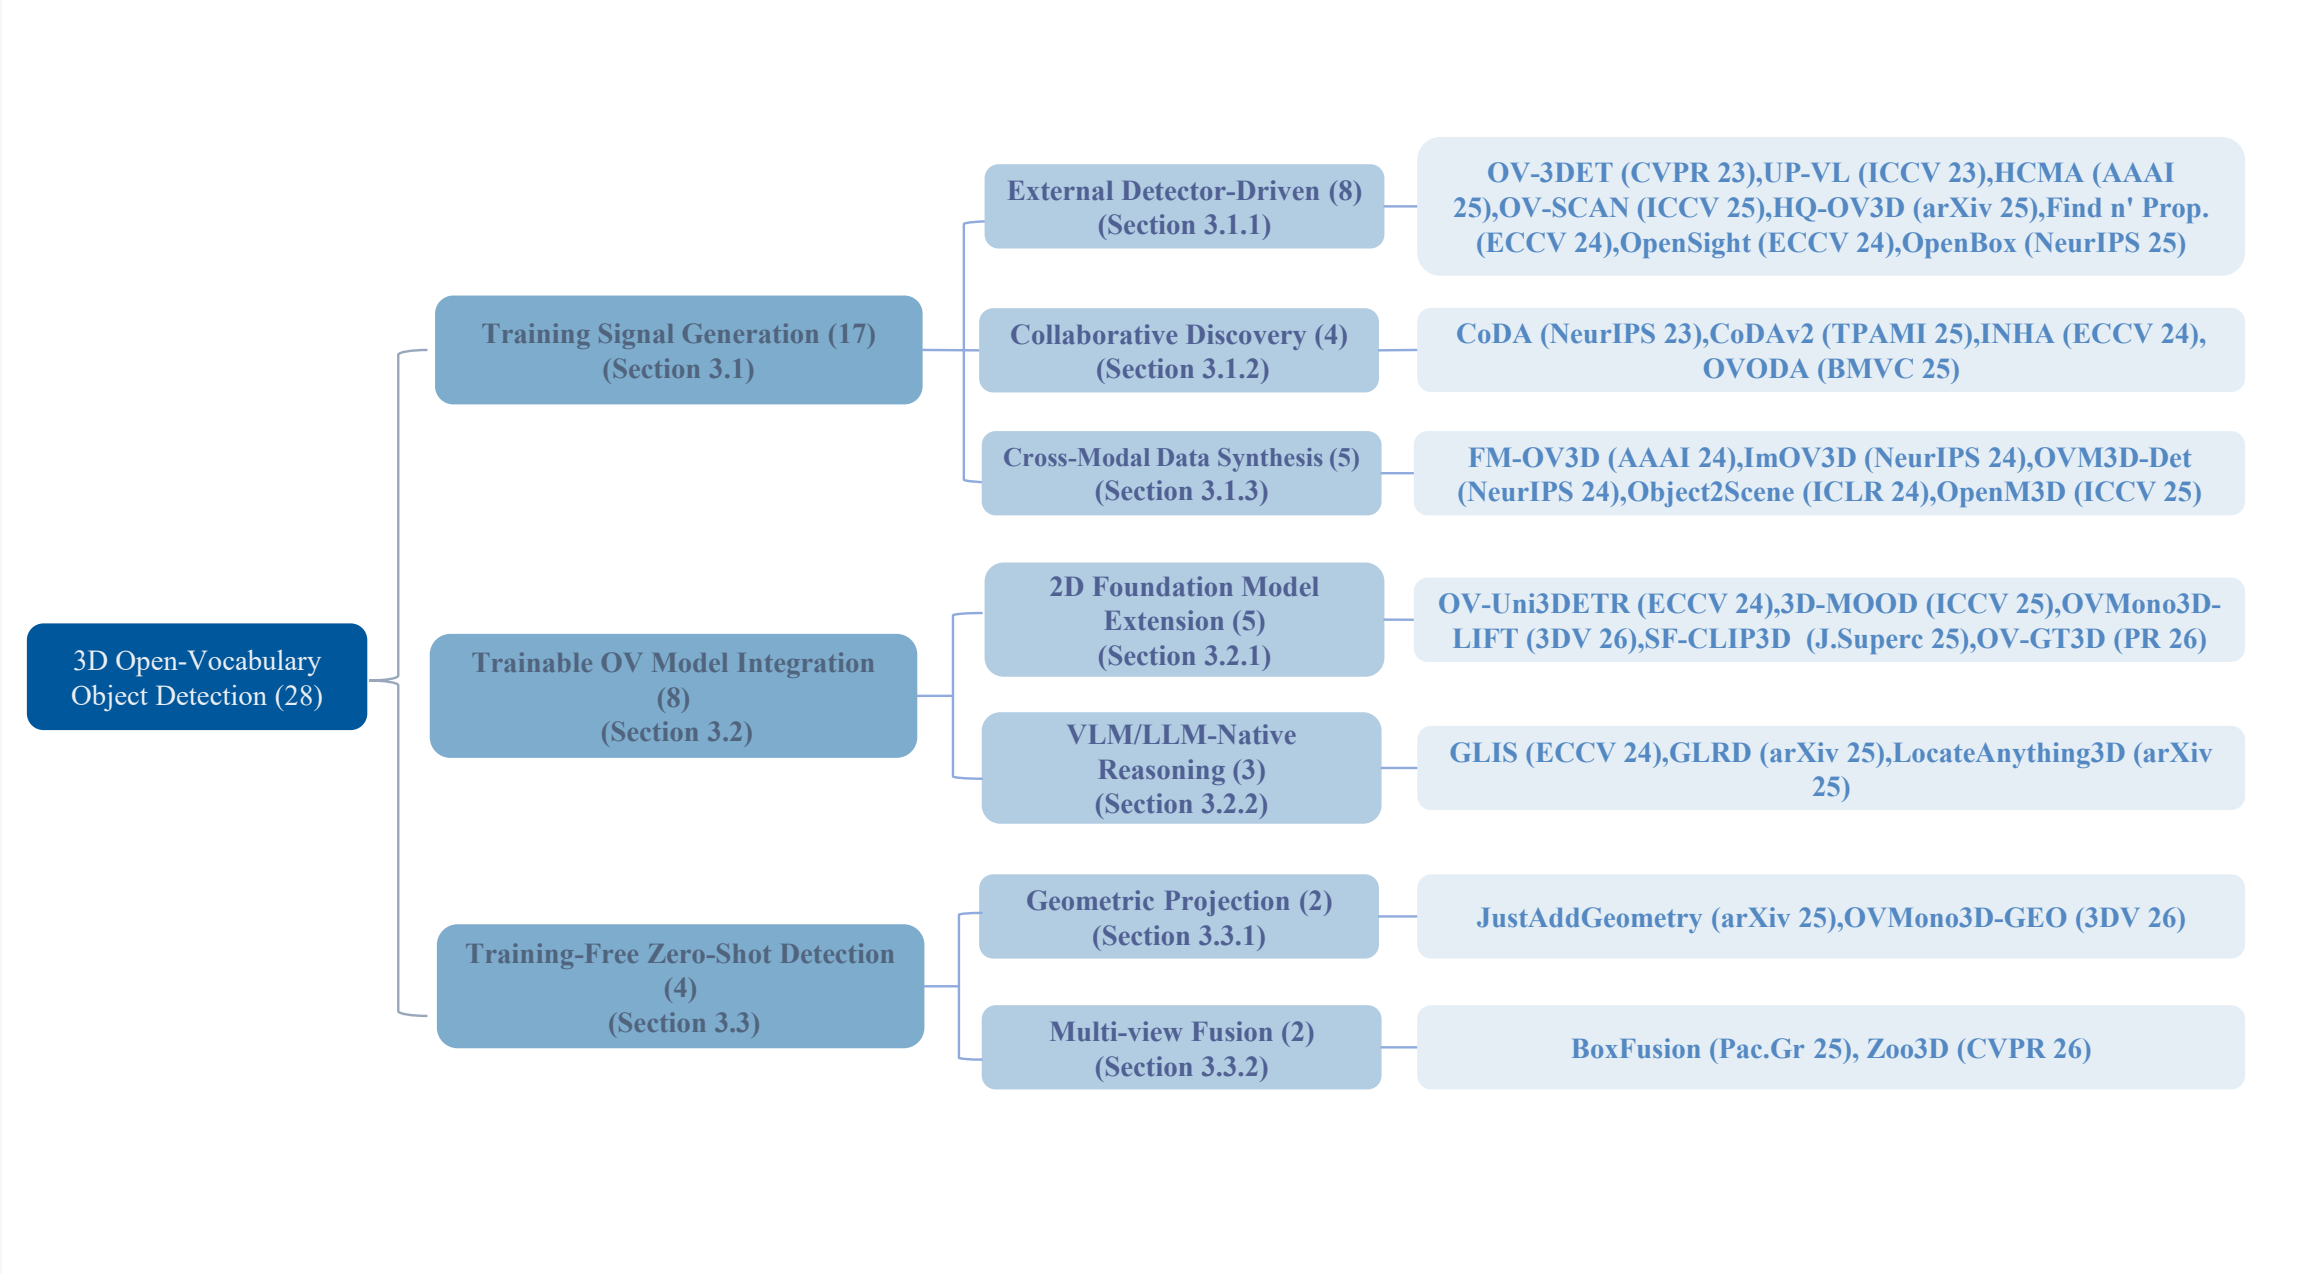
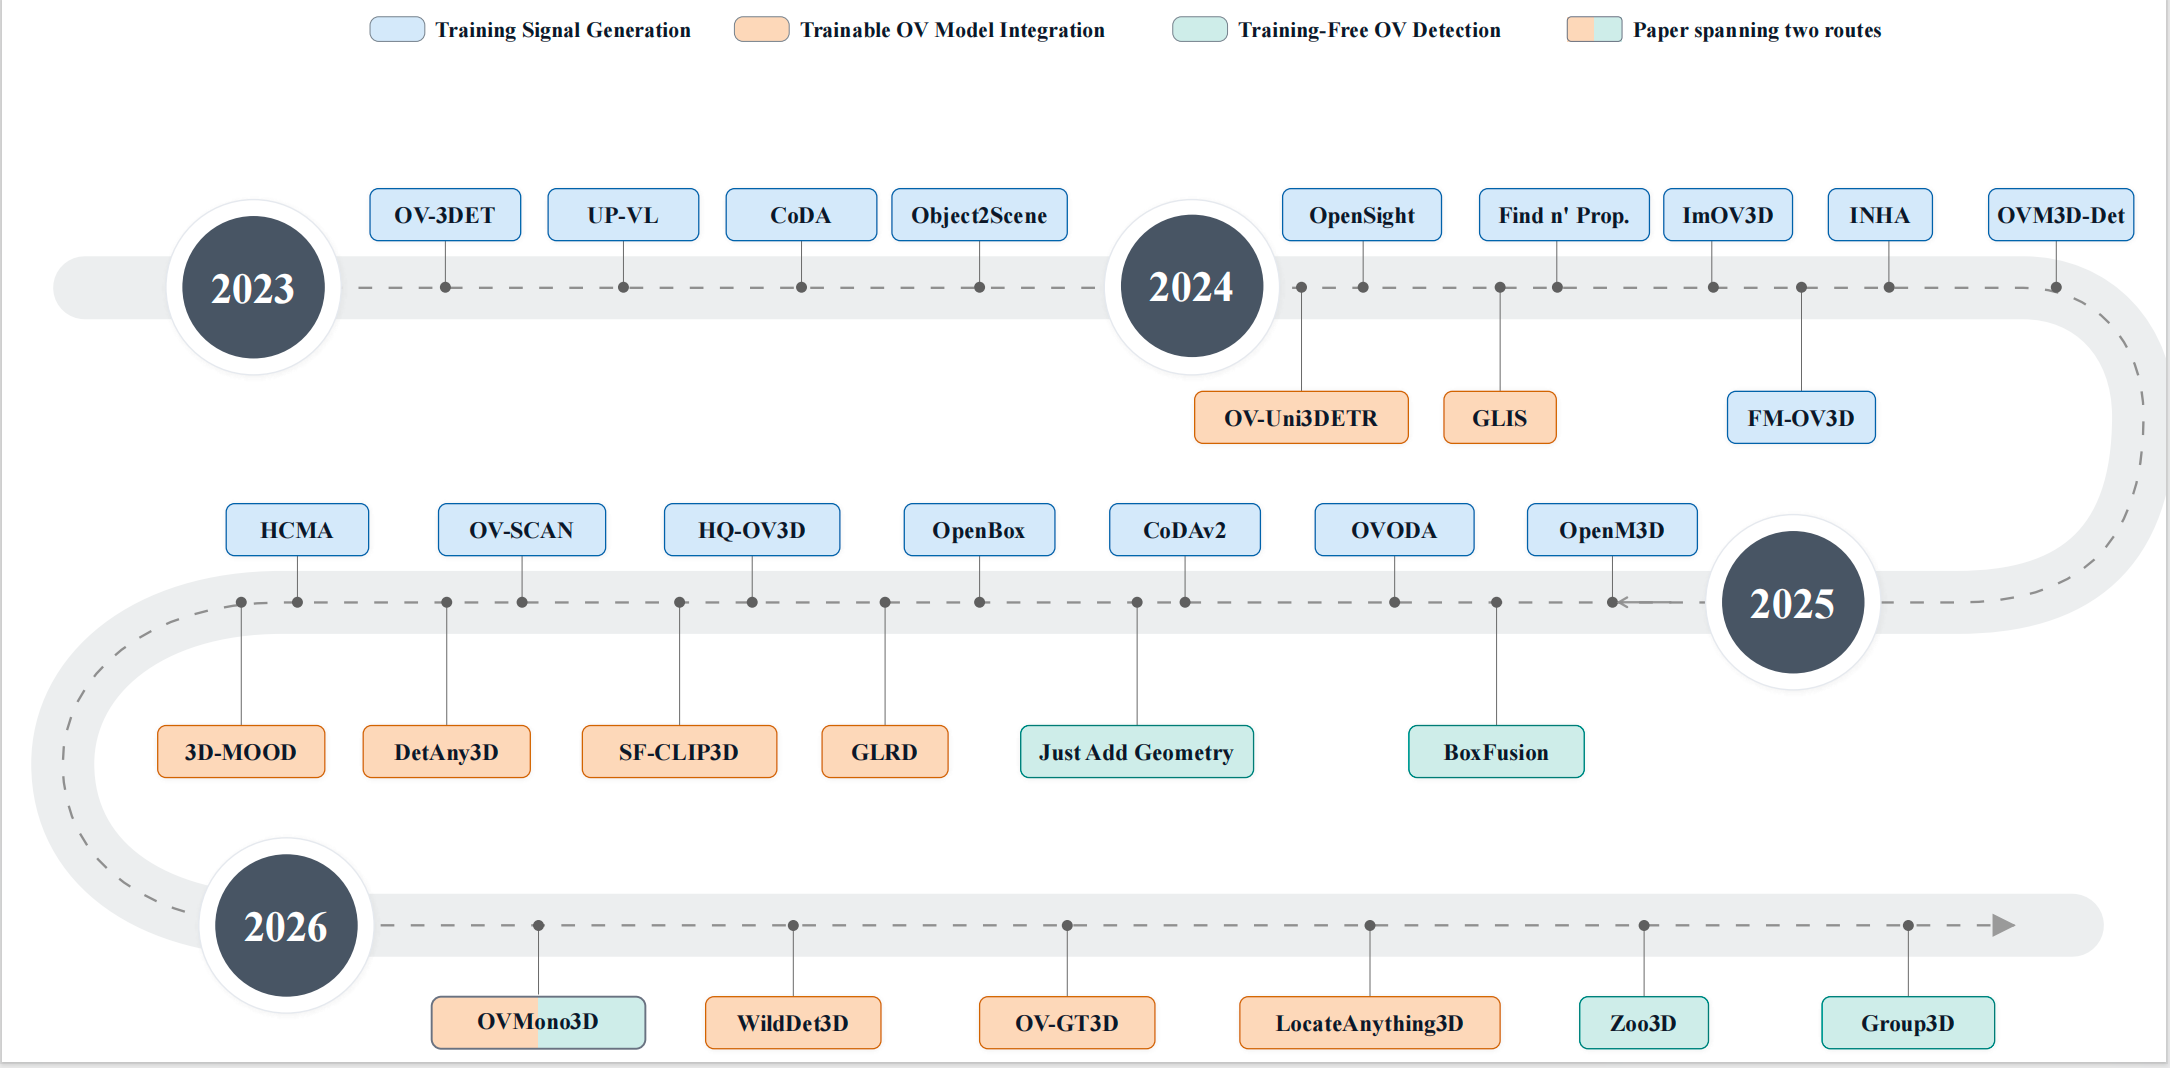
最终版

diff --git a/README.md b/README.md
@@ -3,9 +3,10 @@
 Our paper [Awesome-3D-Open-Vocabulary-Object-Detection](www.google.com)
 
 <p align="center">
-  <img src="./image.png" style="display:block;margin:0;padding:0;">
   <img src="./image-1.png" style="display:block;margin:0;padding:0;">
+  <img src="./image.png" style="display:block;margin:0;padding:0;">
 </p>
+
 ## Papers
 
 ### 2026
@@ -13,7 +14,8 @@ Our paper [Awesome-3D-Open-Vocabulary-Object-Detection](www.google.com)
 **CVPR 2026 (Accepted Papers)**
 
 - Zoo3D: Zero-Shot 3D Object Detection at Scene Level[[paper](https://arxiv.org/pdf/2511.20253)]
-
+- LocateAnything3D: Vision-Language 3D Detection with Chain-of-Sight[[paper](https://arxiv.org/pdf/2511.20648)]
+  
 **Pattern Recognition 2026 (Accepted Papers)**
 - OV-GT3D: A generalizable open-vocabulary two-stage 3D detector with dual path distillation[[paper](https://pdf.sciencedirectassets.com/272206/1-s2.0-S0031320325X0011X/1-s2.0-S0031320325008167/main.pdf?X-Amz-Security-Token=IQoJb3JpZ2luX2VjEC4aCXVzLWVhc3QtMSJHMEUCIF7QMbyRTWZKaq4e1UI8mhu0902gOBMHs2a0fAAm0A0cAiEAwaOI7MN53P7iOLI1sUCGMgYEGqhS4u1JCvJOi4y3K4sqvAUI9%2F%2F%2F%2F%2F%2F%2F%2F%2F%2F%2FARAFGgwwNTkwMDM1NDY4NjUiDInl%2FpJT5UafEA1wHCqQBZkYEtaLAzTXPsAJozmzeRL%2BM6KHgdc0d6bq0%2Bg%2FLR320tl8pl9XRtsF1ndmZV5vg%2FWFwMWiy3VxGDBBRZNxbvwPPjtHLxoe4Prq5o00nONwSP5%2F7md9V2phBIENR45zYuLrtToCP44MHwoKEBIUSCjmyH7tS9Im%2Bp4TKyL%2BUX21T3RKYBmNdZMSRc4TeTvyZuVlytVI8%2Fa91QkBe1l9IwNvY7C1fPF6fYyZjzhUrMttN%2FPPFSyubfcCvZi7t4Ret1jJvKFOGypKLgXQtUHu2lMAfF1R%2Fj%2BeSBO1uqbIratuEHbEWWN%2FdvS8O%2B1lgSiZ5weBnAt%2BnTv3ZuhsT39h8NkZwCwnHT4LJhMjLXPKjde6fRacTSoPhlZVMzPqYnzyMurHIhX6ySNPOlaqY0P8SJ9PIh%2BCxDm2YWyBumQojk1igZnoAHTOlLDFxP7EMNUMzoJ5UtDgHqmO%2BWMvTxzDYJp1IK76GkicYFhDbMu2XOnkIf0DlTmGmquoJnV5u68dFsragvfvrIT9BKl9zWpzK4EDYMyCpuzh5kUzRRBmecnI5nG2Fy%2FMYw1URnYy9Y42guGnERJV3eBVm5TXfWr%2BkxlOyP5u52Msc%2BRraOcnfXoVF5ni9J%2BgKmabJ50PgAVrcfv5%2F186ORoWjlPo%2FArC2bJJ7W8CYhjQjlgomu%2BMQ%2FYe6NlZBU3AIBPjLbAS8%2BaM152tBb%2B5yEPIKDiNUG1Jleo50x71PlvUeWDXz3KGJEL2metWYxqcf6H98n2T6K6x%2FC7J6iItLqdpTZup%2BimtGs%2FxSPsCkoBpiT9cnccGEcxx2g3rx8d9YaufhhqUvu1iHKZzbMjuufSU7zNcgFwdY%2F4AcC3dT0DXL23nGGYZRHzNMIbS184GOrEBppkESpRCSyb5UaGPFOIeIhZObbtPgDhAxrNEEyz0GJaGgATZIs%2F72PyslROwz1rL1EhUkNrBtTsiq5oxlbxApRuL71jJ2cRzBKBhxL2eQ3ArCj0%2FJeTWRagFGBkU%2BOHWA82ro0EhaKejen83HAVyu3LlqQtUfT3E8OjUkuAW3vkiGUjAOsbKYvb2YtPdQaxYDSc2je8vbat0w608PcB9FWgN30CupyvERhSLhsJ1aDc2&X-Amz-Algorithm=AWS4-HMAC-SHA256&X-Amz-Date=20260408T070832Z&X-Amz-SignedHeaders=host&X-Amz-Expires=300&X-Amz-Credential=ASIAQ3PHCVTYR2NPUA4X%2F20260408%2Fus-east-1%2Fs3%2Faws4_request&X-Amz-Signature=221e6cce8907e73ee56bb75fd96bc4b81a8d98368020603951ac95a204d2427c&hash=2c2cee18f53485238a718955046ca773425e7e21f5f78353b0ac20c89f45de6c&host=68042c943591013ac2b2430a89b270f6af2c76d8dfd086a07176afe7c76c2c61&pii=S0031320325008167&tid=spdf-e8896424-d276-48b5-8b0e-a3644a409f62&sid=5b4ebf4c44fab542d5493844a932a2acc303gxrqa&type=client&tsoh=d3d3LnNjaWVuY2VkaXJlY3QuY29t&rh=d3d3LnNjaWVuY2VkaXJlY3QuY29t&ua=0c1457075a0353510402&rr=9e8f70fde879d779&cc=jp)]
 
@@ -24,15 +26,16 @@ Our paper [Awesome-3D-Open-Vocabulary-Object-Detection](www.google.com)
 - Collaborative Novel Object Discovery and Box-Guided Cross-Modal Alignment for Open-Vocabulary 3D Object Detection[[paper](https://arxiv.org/pdf/2406.00830)]
 
 **ICCV 2025 (Accepted Papers)**
+- Detect Anything 3D in the Wild[[paper](https://arxiv.org/abs/2504.07958)]
 - 3D-MOOD: Lifting 2D to 3D for Monocular Open-Set Object Detection[[paper](https://arxiv.org/pdf/2507.23567)]  
 - OpenM3D: Open Vocabulary Multi-view Indoor 3D Object Detection without Human Annotations[[paper](https://arxiv.org/pdf/2508.20063)]
 - OV-SCAN: Semantically Consistent Alignment for Novel Object Discovery in Open-Vocabulary 3D Object Detection[[paper](https://arxiv.org/pdf/2503.06435)]
 
 **BMVC 2025 (Accepted Papers)**
-- OVODA:Towards Open-Vocabulary Multimodal 3D Object Detection with Attributes[[paper](https://arxiv.org/pdf/2508.16812)]
+- OVODA: Towards Open-Vocabulary Multimodal 3D Object Detection with Attributes[[paper](https://arxiv.org/pdf/2508.16812)]
 
 **AAAI 2025 (Accepted Papers)**
-- HCMA：Hierarchical Cross-Modal Alignment for Open-Vocabulary 3D Object Detection[[paper](https://arxiv.org/pdf/2503.07593)]
+- HCMA: Hierarchical Cross-Modal Alignment for Open-Vocabulary 3D Object Detection[[paper](https://arxiv.org/pdf/2503.07593)]
 
 **NeurIPS 2025 (Accepted Papers)**
 - OpenBox: Annotate Any Bounding Boxes in 3D[[paper](https://arxiv.org/pdf/2512.01352)]
@@ -42,13 +45,6 @@ Our paper [Awesome-3D-Open-Vocabulary-Object-Detection](www.google.com)
 
 **Pacific Graphics 2025 (Accepted Papers)**
 - BoxFusion: Reconstruction-Free Open-Vocabulary 3D Object Detection via Real-Time Multi-View Box Fusion[[paper](https://arxiv.org/pdf/2506.15610)]
-
-**arxiv**
-- Just Add Geometry: Gradient-Free Open-Vocabulary 3D Detection Without
-Human-in-the-Loop[[paper](https://arxiv.org/pdf/2507.13363)]
-- GLRD: Global-Local Collaborative Reason and Debate with PSL for 3D Open-Vocabulary Detection[[paper](http://arxiv.org/pdf/2503.20682)]
-- LocateAnything3D: Vision-Language 3D Detection with Chain-of-Sight[[paper](https://arxiv.org/pdf/2511.20648)]
-- HQ-OV3D: A High Box Quality Open-World 3D Detection Framework based on Diffision Model[[paper](https://arxiv.org/pdf/2508.10935)]
 
 ### 2024
 **NeurIPS 2024 (Accepted Papers)**
@@ -77,3 +73,12 @@ Human-in-the-Loop[[paper](https://arxiv.org/pdf/2507.13363)]
 
 **ICCV 2023 (Accpeted Papers)**
 - Unsupervised 3D Perception with 2D Vision-Language Distillation for Autonomous Driving[[paper](https://arxiv.org/abs/2309.14491)]
+
+**arxiv**
+- Group3D: MLLM-Driven Semantic Grouping for Open-Vocabulary 3D Object Detection [[paper](https://arxiv.org/pdf/2603.21944)]
+- WildDet3D: Scaling Promptable 3D Detection in the Wild [[paper](https://arxiv.org/pdf/2604.08626)]
+- Just Add Geometry: Gradient-Free Open-Vocabulary 3D Detection Without
+Human-in-the-Loop[[paper](https://arxiv.org/pdf/2507.13363)]
+- GLRD: Global-Local Collaborative Reason and Debate with PSL for 3D Open-Vocabulary Detection[[paper](http://arxiv.org/pdf/2503.20682)]
+- HQ-OV3D: A High Box Quality Open-World 3D Detection Framework based on Diffision Model[[paper](https://arxiv.org/pdf/2508.10935)]
+